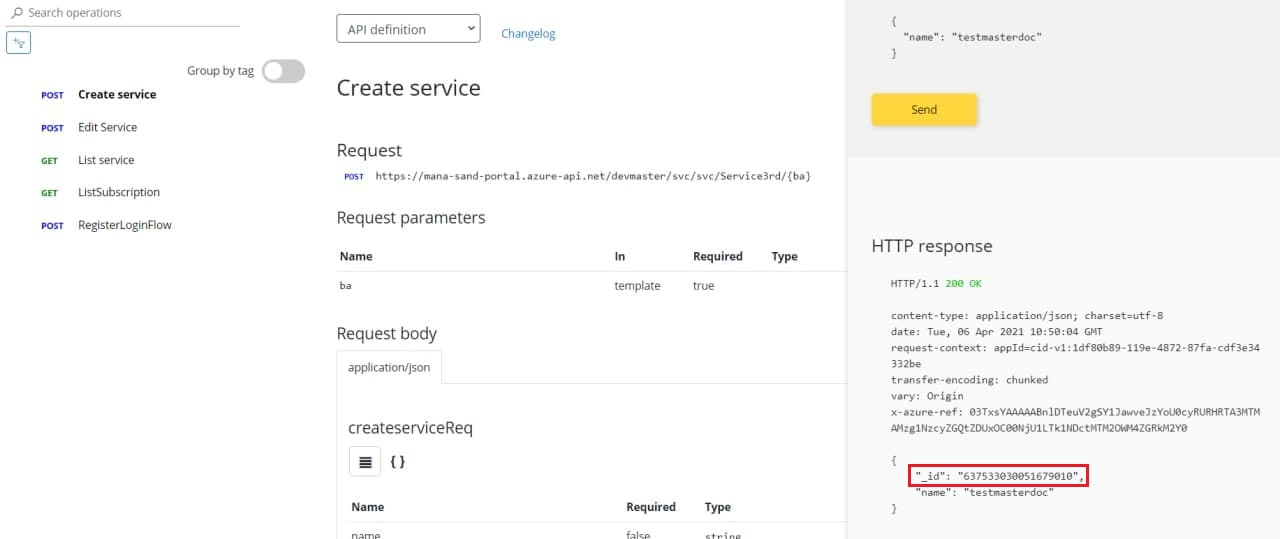
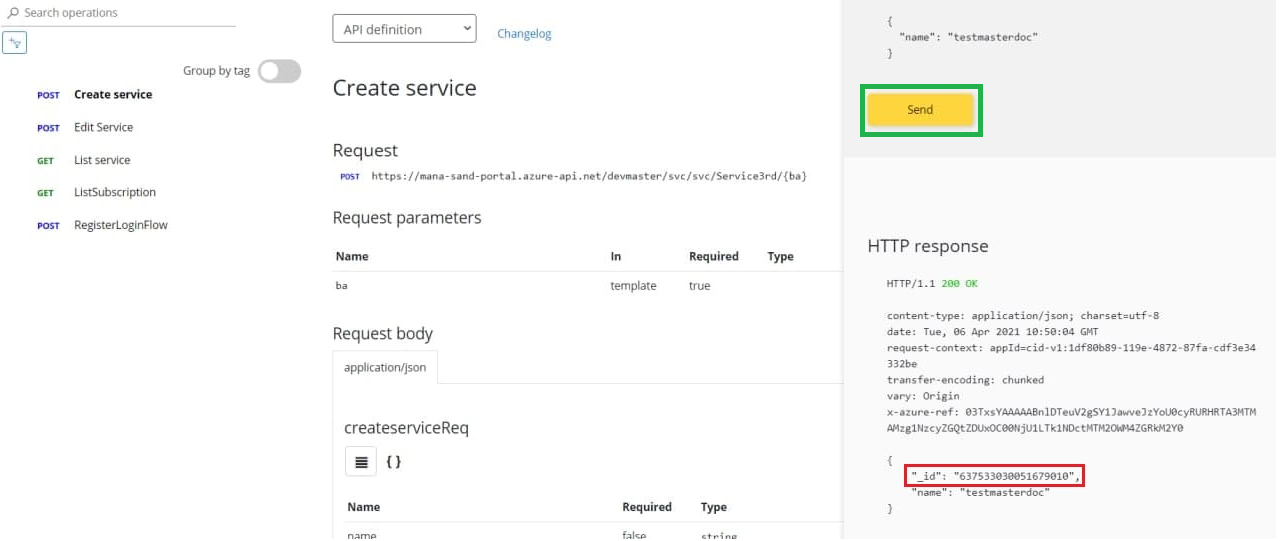
edit doc create services

diff --git a/source/Tutorial/CreateServices.md b/source/Tutorial/CreateServices.md
@@ -2,14 +2,19 @@
 **Service** หรือระบบที่ถูกสร้างขึ้นมาเพื่อรองรับหรือตอบโจทย์กับการใช้งานในธุรกิจต่างๆ ซึ่งระบบที่ว่านี้จะถูกพัฒนาโดยนักพัฒนาภายนอก (3rd party)
 ซึ่งหากนักพัฒนาจะสร้าง Service ต้องทำการสร้างใน Devportal โดยมีขั้นตอนดังนี้
 
-1.เลือกหมวด [API Service Management](../apis/APIs.md) เลือก Create Service และ Try it
+1.เข้ามาที่เมนู Profile ทำการ Copy ค่า baid
+
+![a](../img/Tutorial/createService/baid.png)
+
+
+2.เลือกหมวด [API Service Management](../apis/APIs.md) เลือก Create Service และ Try it
 
 ![a](../img/Tutorial/createService/serviceManage.jpg)
 
-2.กรอกข้อมูลให้ครบถ้วน
+3.เอาค่า baid ที่ Copy วางในกรอบสีเขียวตามภาพด้านล่าง
 
 ![a](../img/Tutorial/createService/tryit.jpg)
 
-3.หลังจากทำการสร้าง Service เป็นที่เรียบร้อยแล้ว นักพัฒนาจะได้รับ ServiceID กลับมาซึ่งในการเข้าใช้งาน APIs อื่นๆ อาจต้องทำการส่ง ServiceID แนบไปด้วย
+4.กด Send ตามกรอบสีเขียวเสร็จ จะทำการสร้าง Service เป็นที่เรียบร้อยแล้ว นักพัฒนาจะได้รับ ServiceID ตามกรอบสีแดง กลับมาซึ่งในการเข้าใช้งาน APIs อื่นๆ อาจต้องทำการส่ง ServiceID แนบไปด้วย
 
 ![a](../img/Tutorial/createService/serviceId.jpg)
